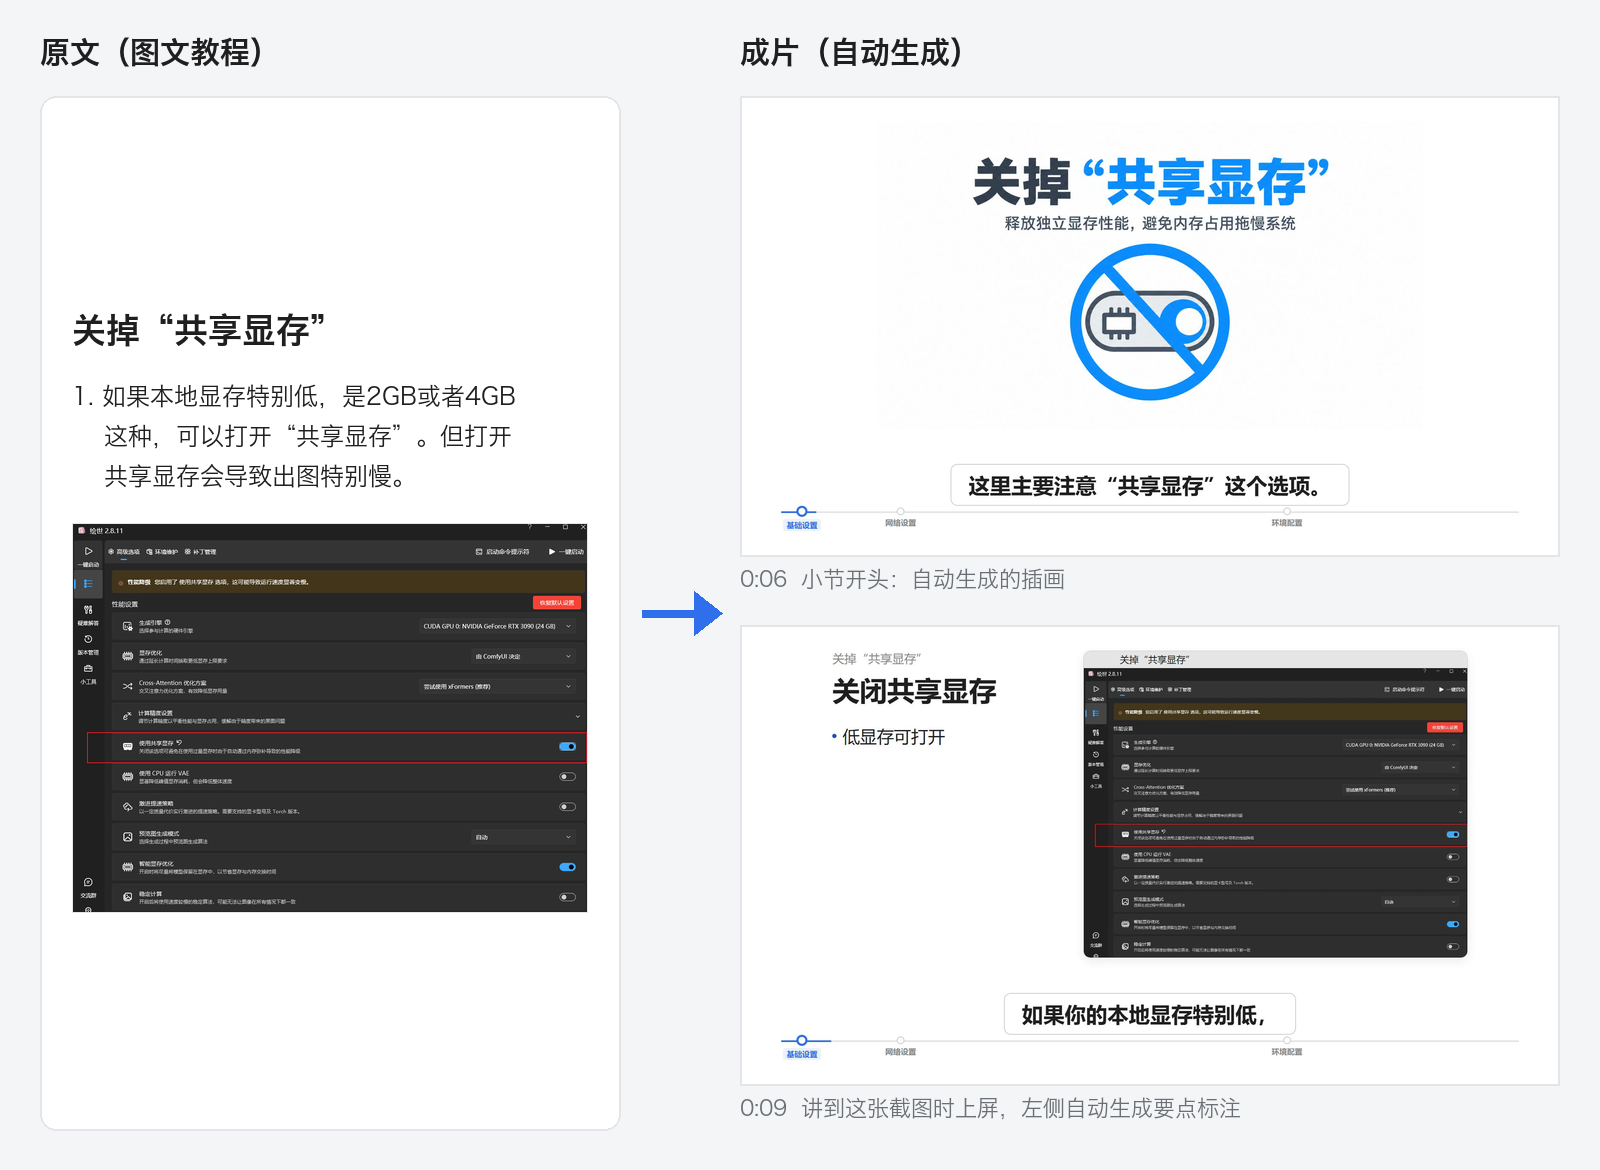
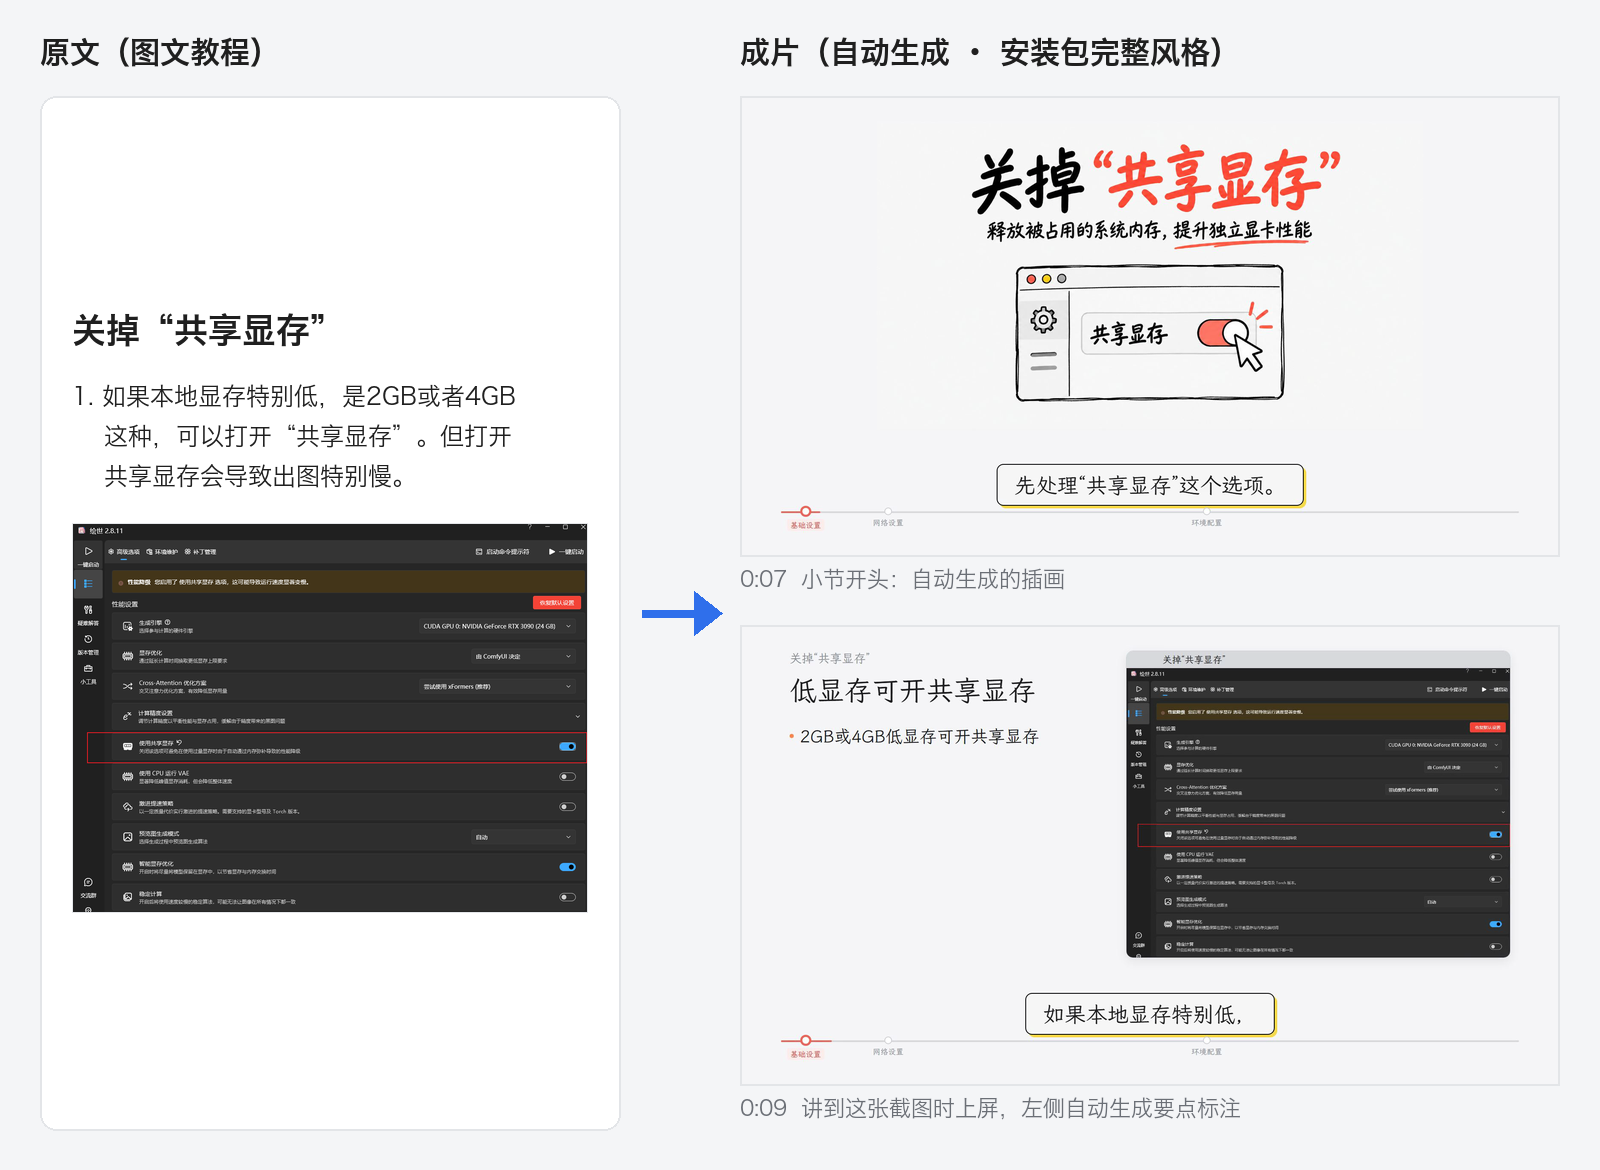
文档修订：README 改版、运行逻辑图、对比图换完整风格
- README：删除实测数据表；重写“为什么做这个项目”；“它能做什么”与扩展方向合并；运行逻辑流程图换成图片
- 对比图改用安装包完整风格成片（0:07、0:09 两帧）
- 命令行与常见问题：费用改为一般性说明
- 风格定制指南：换字体示例改为 @font-face 注入（实测渲染通过），修正 frame_check 特征色说明
- app/package.json：version 1.1.0，license MIT

diff --git a/README.md b/README.md
@@ -9,7 +9,7 @@
   <a href="https://github.com/Chopper888/qb-article2video/releases"><img src="https://img.shields.io/badge/下载-Releases-orange" alt="Release 下载"></a>
 </p>
 
-[演示](#效果展示) · [为什么做](#为什么做这个项目) · [运行逻辑](#运行逻辑) · [快速开始](#快速开始) · [下载](#方式一下载安装包推荐) · [扩展方向](#这是一个架子扩展方向) · [交流](#交流与反馈)
+[演示](#效果展示) · [为什么做](#为什么做这个项目) · [运行逻辑](#运行逻辑) · [快速开始](#快速开始) · [下载](#方式一下载安装包推荐) · [交流](#交流与反馈)
 
 作者：乔巴（Chopper888）
 
@@ -28,7 +28,7 @@
 
 ![原文与成片对比](docs/images/原文与成片对比.png)
 
-<sub>成片取自开源版基础风格对同一篇文章的出片（0:06、0:09 两帧），安装包完整风格的画面更丰富。</sub>
+<sub>成片画面：安装包完整风格（0:07、0:09 两帧）。</sub>
 
 ### 桌面应用
 
@@ -47,63 +47,36 @@
 
 </details>
 
-### 实测数据
-
-以下是安装包（完整风格）的真实出片记录：
-
-| 文章 | 类型 | 成片时长 | 费用 |
-|---|---|---|---|
-| 秋叶绘世启动器基本设置 | 截图型 | 2:14 | 约 ¥6 |
-| 2.0.10 科普篇-CLIP SKIP 是什么意思？有什么用？ | 截图型 | 3:51 | ¥5.52 |
-| 3.0.2.4 科普篇-如何写一个自己的 skill？ | 截图型 | 12:59 | ¥17.61 |
-| 3.1.2.1 基础篇-Claude Code 新手教程&进阶技巧 | 截图型 | 25:33 | ¥29.27 |
-
-费用是按量计费的实际花费，会随文章长度、截图数量变化。完整成片见 [B 站主页](https://space.bilibili.com/522625412)。
-
 ## 为什么做这个项目
 
-我喜欢写文章。文字更适合把逻辑讲清楚，干货也写得最扎实。
+现在依然有很多人在认真手写高质量的文章：内容扎实、干货满满，阅读量却常常比不过一条视频。
 
-但现在大多数人更愿意看视频，认真写的干货文章，往往没有多少人读。
-
-文章成片想做的事很简单：让只会写文章、不会剪视频的人，也能把自己的内容变成视频，多一种被看到的方式。
+我想做的事情很简单：让这些只会写文章的人，也能把自己的内容变成视频，多一种被看到的方式。
 
 ## 它能做什么
 
-1. **截图自动对上口播。** 判断每句口播在讲哪张截图，讲到时才让截图上屏，并在截图旁自动生成要点标注、在截图上框出重点位置。
-2. **自动区分理论型 / 截图型文章。** 文章里有真实软件截图就走截图型流程（多一步截图分析），没有就走理论型流程，以插画为主。
-3. **多种导入方式。** 支持飞书文档链接、本地 Markdown、文件夹、zip；飞书里嵌套列表、折叠标题下的图片和文字也能完整导入。导入时先检查图片引用和编码，有问题在花钱之前就拦下。
-4. **先估算，再花钱。** 出片前可以估算费用范围；每篇都有费用上限，超了就停。所有付费请求按内容缓存，改过文章重跑时，内容没变的请求直接用缓存，不重复付费。
-5. **自动质检。** 出片后生成检查报告：画面底线、原图和要素是否都出现、画面出现时机是否提前 / 推后、音画是否同步、成片声音是否就是本次配音。
-6. **三种用法。** 安装包开箱即用；也可以从源码运行；或者交给 Claude Code、Codex 这类 Agent 调用（见 [AGENTS.md](AGENTS.md)）。
+把一篇文章**全自动**变成一条讲解视频：写口播、配音、配字幕、配插画、放截图，全程不用手动剪辑。
+
+适合的文章：
+
+- **理论、观点类文章**：自动配插画和标题画面；
+- **带截图的教程类文章**：截图会在讲到它的那一刻出现，并自动加标注。
+
+### 拿来就用，也能接着改
+
+文章成片既是一个**拿到手就能用的 APP**，也是一个**开放的框架**：
+
+- **直接用**：下载安装包，填好 API Key，导入文章就能出片。
+- **做全自动化生产**：所有代码都已开源，可以基于这个框架打磨流程、做出你自己的风格包（见[风格定制指南](docs/风格定制指南.md)）。
+- **做更炫酷的视频**：把它当作一个 skill 交给 Agent 调度，再结合 Remotion（本仓库渲染层已在使用）、HyperFrames 等开源视频框架做动效和运镜（HyperFrames 不在本仓库中，需要自行接入）。
 
 ## 运行逻辑
 
 一篇文章从导入到成片，要经过 S0～S10 共 11 步。理论型文章跳过 S6。
 
-```mermaid
-flowchart TB
-    subgraph A["① 文字与声音"]
-        direction LR
-        IN["导入<br/>飞书 / md / 文件夹 / zip"] --> S0["S0 内容类型判断"]:::paid --> S1["S1 口播"]:::paid --> S2["S2 分组"]:::free --> S3["S3 配音"]:::paid --> S4["S4 对齐"]:::free
-    end
-    subgraph B["② 画面"]
-        direction LR
-        S5["S5 图片定位"]:::free -->|截图型| S6["S6 截图分析"]:::paid --> S7["S7 编排"]:::paid
-        S5 -->|理论型| S7
-        S7 --> S8["S8 出图"]:::paid
-    end
-    subgraph C["③ 合成与检查"]
-        direction LR
-        S9["S9 场景构建"]:::free --> S10["S10 渲染"]:::free --> OUT["成片 mp4<br/>+ 检查报告"]
-    end
-    A --> B --> C
+![文章成片运行逻辑：S0～S10 共 11 步](docs/images/运行逻辑.jpg)
 
-    classDef paid fill:#FFF1E0,stroke:#E8890C,color:#1F1F1F
-    classDef free fill:#EAF1FD,stroke:#2F6FEB,color:#1F1F1F
-```
-
-<sub>橙色 = 会调用按量付费服务（命中缓存时不花钱）；蓝色 = 本地计算，不花钱。</sub>
+<sub>标「付费」的步骤会调用按量付费服务（命中缓存时不花钱）；标「本地」的步骤在本机计算，不花钱。</sub>
 
 | 步骤 | 做什么 | 用什么服务 | 产出 | 付费 |
 |---|---|---|---|---|
@@ -239,15 +212,6 @@ python -m pipeline.engine run --work-root "$env:USERPROFILE\article2video\工作
 - **飞书开放平台（可选，用于导入飞书文档）**：<https://open.feishu.cn/>
 
 各平台的具体开通步骤以官方文档为准。
-
-## 这是一个架子：扩展方向
-
-文章成片是一个**框架**，不是最终成品。当前开源版的效果是基础的，很多地方还能持续优化。
-
-- **想要自动化批量出片**：研究风格文件，做出你自己的风格。提示词、模板、配色、字体都是独立的文件，改它们不需要动流程代码。从 [风格定制指南](docs/风格定制指南.md) 开始。
-- **想要更炫的视频**：把文章成片当作一个 skill，交给 Agent 调度（入口说明见 [AGENTS.md](AGENTS.md)）；再结合 Remotion（本仓库的渲染层已经在用）等开源视频框架做动效和运镜。也可以结合 HyperFrames 等其他开源视频框架，这部分不在本仓库里，需要自己接入。
-
-我会继续打磨风格和流程，也欢迎提 Issue / PR 一起完善。
 
 ## 局限
 

diff --git a/docs/风格定制指南.md b/docs/风格定制指南.md
@@ -49,7 +49,7 @@ export const COLOR_TAG_FG = "#16A34A";  // 章节标签字
 - `engine/pipeline/shot_director.py` 里的 `COLOR_CLEAN`（高亮框颜色）和 `COLOR_ANNOTATED`（箭头颜色）；
 - `engine/R57-render-test/src/shots/ScreenshotScene.tsx` 里的 `HIGHLIGHT_BLUE`、`ARROW_BLUE`（场景数据里没写颜色时的兜底）。
 
-**3）成片核对用的特征色**：`engine/pipeline/engine/frame_check.py` 里的 `ACCENT_RGB` 要改成新颜色的 RGB（这里是 `(0x16, 0xA3, 0x4A)`）。它用强调色来判断"代码卡 / 终端卡 / 表格卡有没有真的上屏"，不改的话检查报告可能误报。
+**3）成片核对用的特征色**：`engine/pipeline/engine/frame_check.py` 里的 `ACCENT_RGB` 要改成新颜色的 RGB（这里是 `(0x16, 0xA3, 0x4A)`）。它把强调色当作插画 / 标题卡的特征色：判断"代码卡 / 终端卡 / 表格卡有没有真的上屏"时，卡片区域里出现这种颜色，就说明画面上其实是插画或标题卡。不改的话这项核对会失灵，检查报告可能漏报。
 
 **4）插画里的颜色**：插画是图片模型画的，颜色写在插画提示词里（`generate.py`、`title_generate.py` 拼装提示词的部分）。只改上面三处的话，字幕、卡片、高亮框会变绿，插画仍是原来的配色。要统一，就把插画提示词里对强调色的描述也改掉——这会让插画全部重新生成，见 [别让缓存全部失效](#别让缓存全部失效)。
 
@@ -75,28 +75,24 @@ engine\R57-render-test\fonts\LXGWWenKai-Regular.ttf
 
 字体文件请确认授权允许你这样使用和分发。
 
-**2）改 `engine/R57-render-test/src/fonts.tsx`**，加载这个文件并把它排在字体栈第一位：
+**2）改 `engine/R57-render-test/src/fonts.tsx`**：把 `FontFaces` 从空组件改成注入 `@font-face`，并把新字体排在字体栈第一位。字幕、标题、截图画面的根组件本来就会渲染 `<FontFaces />`，其他文件不用动：
 
 ```tsx
 import React from "react";
-import { continueRender, delayRender, staticFile } from "remotion";
+import { staticFile } from "remotion";
 
 export const TITLE_FONT =
   '"MyFont", "PingFang SC", "Microsoft YaHei", "Noto Sans CJK SC", sans-serif';
 
-// 字体加载完之前先暂停渲染，避免前几帧用了系统字体
-const handle = delayRender("加载字体");
-const face = new FontFace("MyFont", `url(${staticFile("fonts/LXGWWenKai-Regular.ttf")}) format("truetype")`);
-face.load().then(() => {
-  document.fonts.add(face);
-  continueRender(handle);
-}).catch((err) => {
-  console.error("字体加载失败", err);
-  continueRender(handle);
-});
-
-export const FontFaces: React.FC = () => null;
+// 注入 @font-face；各画面根组件已渲染 <FontFaces />
+export const FontFaces: React.FC = () => (
+  <style>{`@font-face{font-family:"MyFont";src:url("${staticFile(
+    "fonts/LXGWWenKai-Regular.ttf"
+  )}") format("truetype");font-weight:400 700;font-style:normal;font-display:block}`}</style>
+);
 ```
+
+不要在 `fonts.tsx` 顶层用 `delayRender` + `FontFace` 加载字体：实测渲染到中途会报 `delayRender() ... was called but not cleared` 超时，渲染失败。
 
 **3）标注排版会自动跟上。** 截图旁的标注要按字宽排版，引擎量宽时优先用运行时目录里同一个字体文件（`engine/pipeline/shot_annotate.py` 的 `font_path`），没有才用系统字体。所以换完字体，标注的换行、截断会按新字体重新算。
 

diff --git a/docs/命令行与常见问题.md b/docs/命令行与常见问题.md
@@ -107,7 +107,7 @@ python -m pipeline.engine <子命令> [参数]
 
 ### 一篇大概多少钱？
 
-看文章长度和截图数量。安装包（完整风格）的实测：2 分钟左右的截图型短文约 ¥6，4 分钟约 ¥5.5，13 分钟约 ¥18，25 分钟约 ¥29（见 README [实测数据](../README.md#实测数据)）。出图（每张插画一次请求）和截图分析（截图越多请求越多）是主要开销。
+费用随文章长度和截图、插画数量变化，出片前可用 `estimate` 预估。出图（每张插画一次请求）和截图分析（截图越多请求越多）是主要开销。
 
 想知道某一篇的数字，导入后跑 `estimate`，它会给出低 / 高两个数，并按服务分开列出。
 
